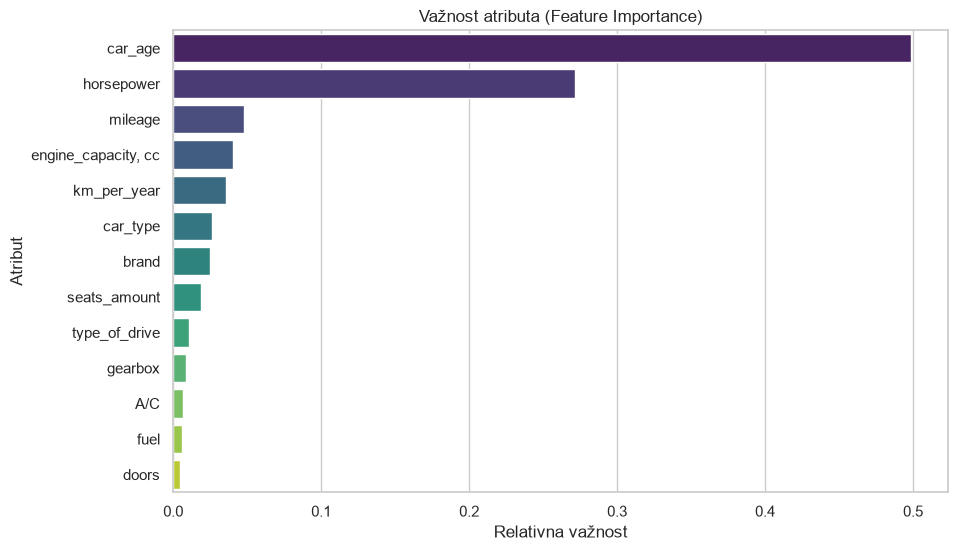
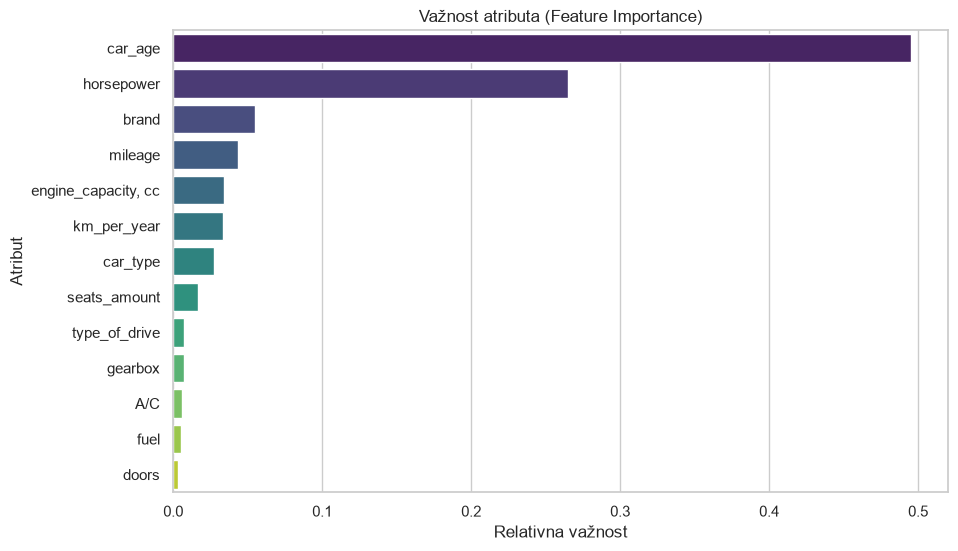
Updated predict, model_training and preprocessing, brand is more important feature tan before

diff --git a/src/predict.py b/src/predict.py
@@ -1,18 +1,36 @@
 import joblib
 import pandas as pd
 
+REFERENCE_YEAR = 2024
+
 def predict_car_price(input_data):
     model = joblib.load('models/best_model.joblib')
     scaler = joblib.load('models/scaler.joblib')
     encoders = joblib.load('models/label_encoders.joblib')
-    
+    brand_price = joblib.load('models/brand_price_map.joblib')
+
+    input_data = dict(input_data)
+
+    if 'year' in input_data and 'car_age' not in input_data:
+        input_data['car_age'] = REFERENCE_YEAR - int(input_data['year'])
+    input_data.pop('year', None)
+
+    if 'km_per_year' not in input_data and 'mileage' in input_data and 'car_age' in input_data:
+        age = input_data['car_age'] if input_data['car_age'] != 0 else 1
+        input_data['km_per_year'] = input_data['mileage'] / age
+
+    if 'brand' in input_data:
+        brand_key = str(input_data['brand']).upper()
+        input_data['brand'] = brand_price['map'].get(brand_key, brand_price['global_mean'])
+        if brand_key not in brand_price['map']:
+            print(f"Upozorenje: brend '{brand_key}' nije viđen u treningu, koristi se prosečna cena.")
+
     for col, value in input_data.items():
         if col in encoders:
-            # IZBRIŠI .upper() DA BI KORISTIO TAČNO ONO ŠTO UPIŠEŠ
-            val_str = str(value) 
-            
+            val_str = str(value)
+
             allowed_values = encoders[col].classes_
-            
+
             if val_str in allowed_values:
                 input_data[col] = encoders[col].transform([val_str])[0]
             else:
@@ -20,37 +38,36 @@ def predict_car_price(input_data):
                 input_data[col] = 0
 
     df_input = pd.DataFrame([input_data])
-    df_input = df_input[model.feature_names_in_] 
-    
-    df_scaled = scaler.transform(df_input.values)
+    df_input = df_input[model.feature_names_in_]
+
+    df_scaled = pd.DataFrame(scaler.transform(df_input), columns=model.feature_names_in_)
     return model.predict(df_scaled)[0]
 
 if __name__ == "__main__":
     sample_car = {
-        'brand': 'TOYOTA', 
+        'brand': 'DACIA',
+        'year': 2015,
         'mileage': 180000,
-        'horsepower': 95,
-        'engine_capacity, cc': 1500.0,
+        'horsepower': 110,
+        'engine_capacity, cc': 1600.0,
         'seats_amount': 5.0,
-        'A/C': 'manual A/C',
-        'fuel': 'petrol + gas',
+        'A/C': 'automatic A/C',
+        'fuel': 'diesel',
         'car_type': 'hatchback',
         'type_of_drive': 'front',
-        'gearbox': 'manual, 5 speeds',
-        'doors': '4/5 doors',
-        'car_age': 9,
-        'km_per_year': 20000
+        'gearbox': 'manual, 6 speeds',
+        'doors': '4/5 doors'
     }
-    
+
     try:
         print("Učitavam model i vršim predikciju...")
-        
+
         predicted_price = predict_car_price(sample_car)
-        
+
         print("\n" + "="*30)
         print(f"PROCENA CENE: {predicted_price:,.2f} €")
         print("="*30)
-        
+
     except KeyError as e:
         print(f"\nGREŠKA: Nedostaje kolona u ulaznim podacima: {e}")
         print("Proveri da li nazivi u 'sample_car' odgovaraju kolonama iz treninga.")

diff --git a/src/preprocessing.py b/src/preprocessing.py
@@ -1,6 +1,7 @@
 import joblib
 import pandas as pd
 import numpy as np
+from pathlib import Path
 from sklearn.preprocessing import LabelEncoder
 
 class DataPreprocessor:
@@ -8,9 +9,8 @@ class DataPreprocessor:
         self.df = df.copy()
         if 'car_mileage, km' in self.df.columns:
             self.df = self.df.rename(columns={'car_mileage, km': 'mileage'})
-    
+
     def clean_horsepower(self):
-        """Konvertuj horsepower u broj (radi se PRE handle_missing_values)"""
         print("\n=== CLEANING HORSEPOWER ===")
         if 'horsepower' in self.df.columns:
             self.df['horsepower'] = self.df['horsepower'].astype(str).str.extract(r'(\d+)').astype(float)
@@ -18,58 +18,58 @@ class DataPreprocessor:
         return self
 
     def handle_missing_values(self):
-        """Popuni missing vrednosti"""
         print("\n=== HANDLING MISSING VALUES ===")
-        
+
         numeric_cols = self.df.select_dtypes(include=[np.number]).columns
         for col in numeric_cols:
             if self.df[col].isnull().sum() > 0:
                 self.df[col] = self.df[col].fillna(self.df[col].median())
                 print(f"✓ {col}: popunjeno sa median")
-        
+
         categorical_cols = self.df.select_dtypes(include=['object']).columns
         for col in categorical_cols:
             if self.df[col].isnull().sum() > 0:
                 self.df[col] = self.df[col].fillna('Unknown')
                 print(f"✓ {col}: popunjeno sa 'Unknown'")
-        
+
         print("\n✓ Svi missing values uklonjeni!")
         return self
-    
+
     def remove_outliers(self):
-        """Ukloni outliere"""
         print("\n=== REMOVING OUTLIERS ===")
         before = len(self.df)
-        
+
         if 'mileage' in self.df.columns:
             self.df = self.df[self.df['mileage'] <= 1000000]
         if 'price' in self.df.columns:
             self.df = self.df[(self.df['price'] >= 100) & (self.df['price'] <= 100000)]
-        
+
         after = len(self.df)
         print(f"✓ Uklonjeni redovi: {before - after} (ostalo {after})")
         return self
-    
+
     def encode_categorical(self):
         print("\n=== ENCODING CATEGORICAL COLUMNS ===")
-        
+
         if 'car_name' in self.df.columns:
             self.df['brand'] = self.df['car_name'].astype(str).str.split().str[0].str.upper()
             print("✓ Brand izvučen iz car_name")
-        
-        # 2. Encoding
-        categorical_cols = ['A/C', 'fuel', 'car_type', 'type_of_drive', 'gearbox', 'doors', 'color', 'brand']
-        
-        self.label_encoders = {} 
+
+        categorical_cols = ['A/C', 'fuel', 'car_type', 'type_of_drive', 'gearbox', 'doors', 'color']
+
+        self.label_encoders = {}
         for col in categorical_cols:
             if col in self.df.columns:
                 le = LabelEncoder()
                 self.df[col] = le.fit_transform(self.df[col].astype(str))
-                self.label_encoders[col] = le # Sačuvaj
+                self.label_encoders[col] = le
                 print(f"✓ {col}: encoded")
-        
-        # joblib.dump(self.label_encoders, 'models/label_encoders.joblib')
+
+        models_dir = Path("models")
+        models_dir.mkdir(exist_ok=True)
+        joblib.dump(self.label_encoders, models_dir / "label_encoders.joblib")
+        print("✓ Label encoders sačuvani: models/label_encoders.joblib")
         return self
-    
+
     def get_data(self):
         return self.df

diff --git a/src/model_training.py b/src/model_training.py
@@ -12,9 +12,10 @@ import joblib
 from pathlib import Path
 
 class ModelTrainer:
-    def __init__(self, df, target_column='price'):
+    def __init__(self, df, target_column='price', brand_column='brand'):
         self.df = df.copy()
         self.target_column = target_column
+        self.brand_column = brand_column
         self.X_train = None
         self.X_test = None
         self.y_train = None
@@ -22,6 +23,8 @@ class ModelTrainer:
         self.scaler = StandardScaler()
         self.models = {}
         self.results = []
+        self.brand_price_map = None
+        self.brand_global_mean = None
     
     def prepare_data(self):
         print("\n=== PREPARING DATA ===")
@@ -37,6 +40,8 @@ class ModelTrainer:
         print(f"✓ Train set: {len(self.X_train)} redova")
         print(f"✓ Test set: {len(self.X_test)} redova")
 
+        self._encode_brand_by_price()
+
         print("\n=== SCALING FEATURES ===")
         feature_columns = self.X_train.columns
         
@@ -45,6 +50,24 @@ class ModelTrainer:
         print("✓ StandardScaler primenjen (fit na Train setu, transform na Test setu).")
         
         return self
+
+    def _encode_brand_by_price(self):
+        if self.brand_column not in self.X_train.columns:
+            return
+
+        print("\n=== TARGET ENCODING BRENDA (po prosečnoj ceni) ===")
+        self.brand_global_mean = float(self.y_train.mean())
+        self.brand_price_map = self.y_train.groupby(self.X_train[self.brand_column]).mean().to_dict()
+
+        self.X_train = self.X_train.copy()
+        self.X_test = self.X_test.copy()
+        self.X_train[self.brand_column] = (
+            self.X_train[self.brand_column].map(self.brand_price_map).fillna(self.brand_global_mean)
+        )
+        self.X_test[self.brand_column] = (
+            self.X_test[self.brand_column].map(self.brand_price_map).fillna(self.brand_global_mean)
+        )
+        print(f"✓ Brend enkodiran po prosečnoj ceni ({len(self.brand_price_map)} brendova).")
     
     def train_models(self):
         print("\n=== TRAINING MODELS ===")
@@ -101,6 +124,13 @@ class ModelTrainer:
 
         joblib.dump(self.scaler, models_dir / "scaler.joblib")
         print(f"✓ Scaler sačuvan: models/scaler.joblib")
+
+        if self.brand_price_map is not None:
+            joblib.dump(
+                {"map": self.brand_price_map, "global_mean": self.brand_global_mean},
+                models_dir / "brand_price_map.joblib",
+            )
+            print(f"✓ Brand price map sačuvan: models/brand_price_map.joblib")
         
         results_df.to_csv(models_dir / "model_results.csv", index=False)
         return best_model